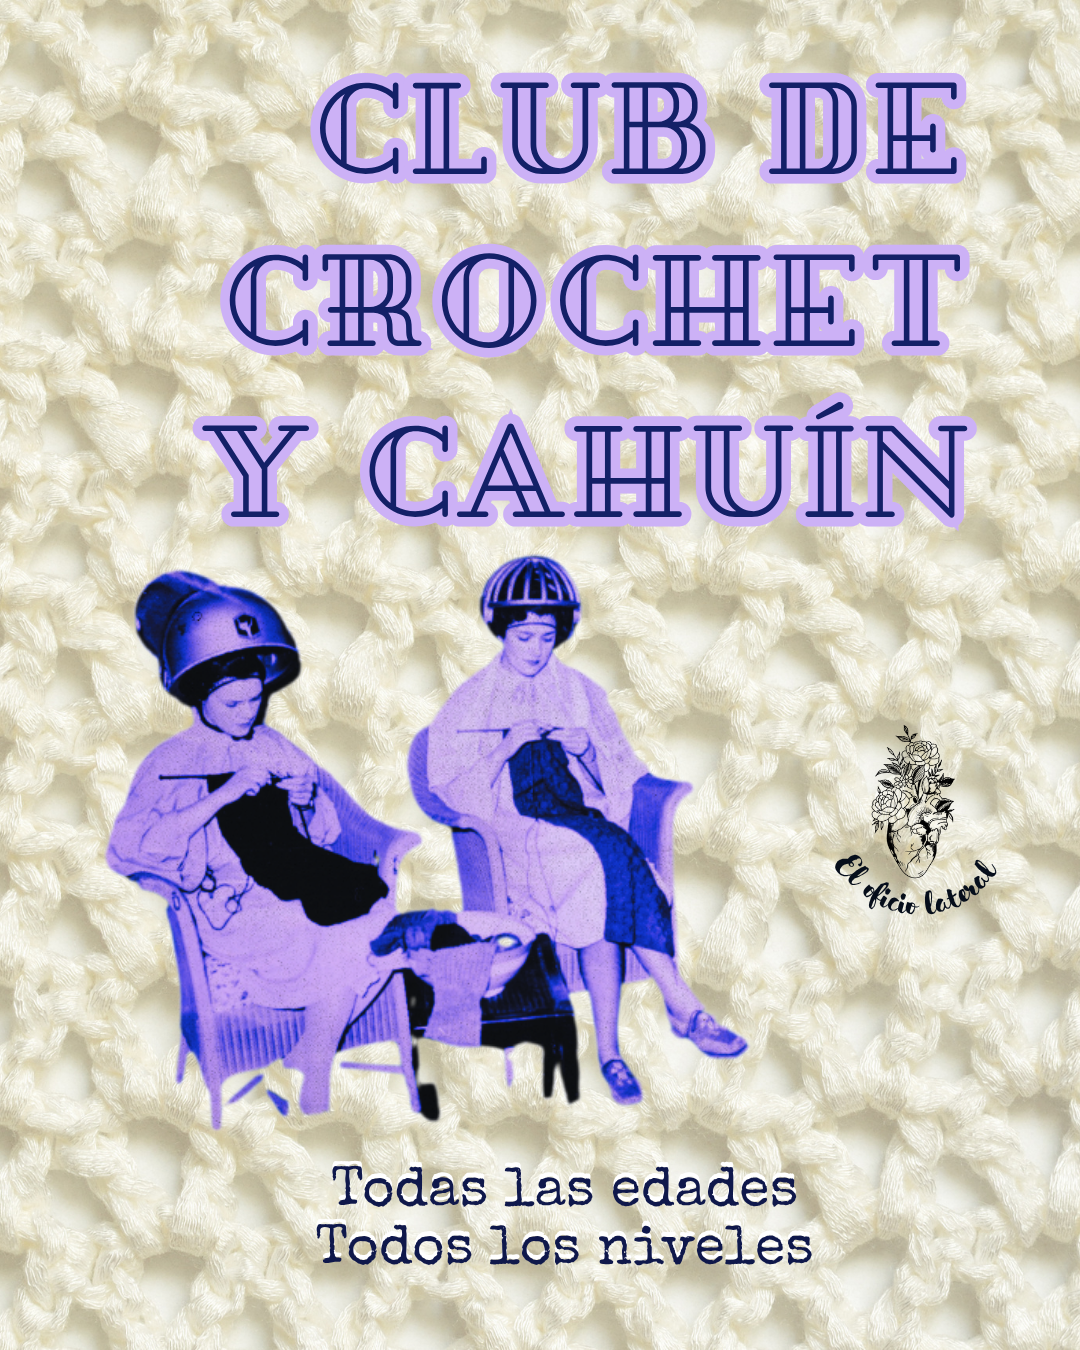
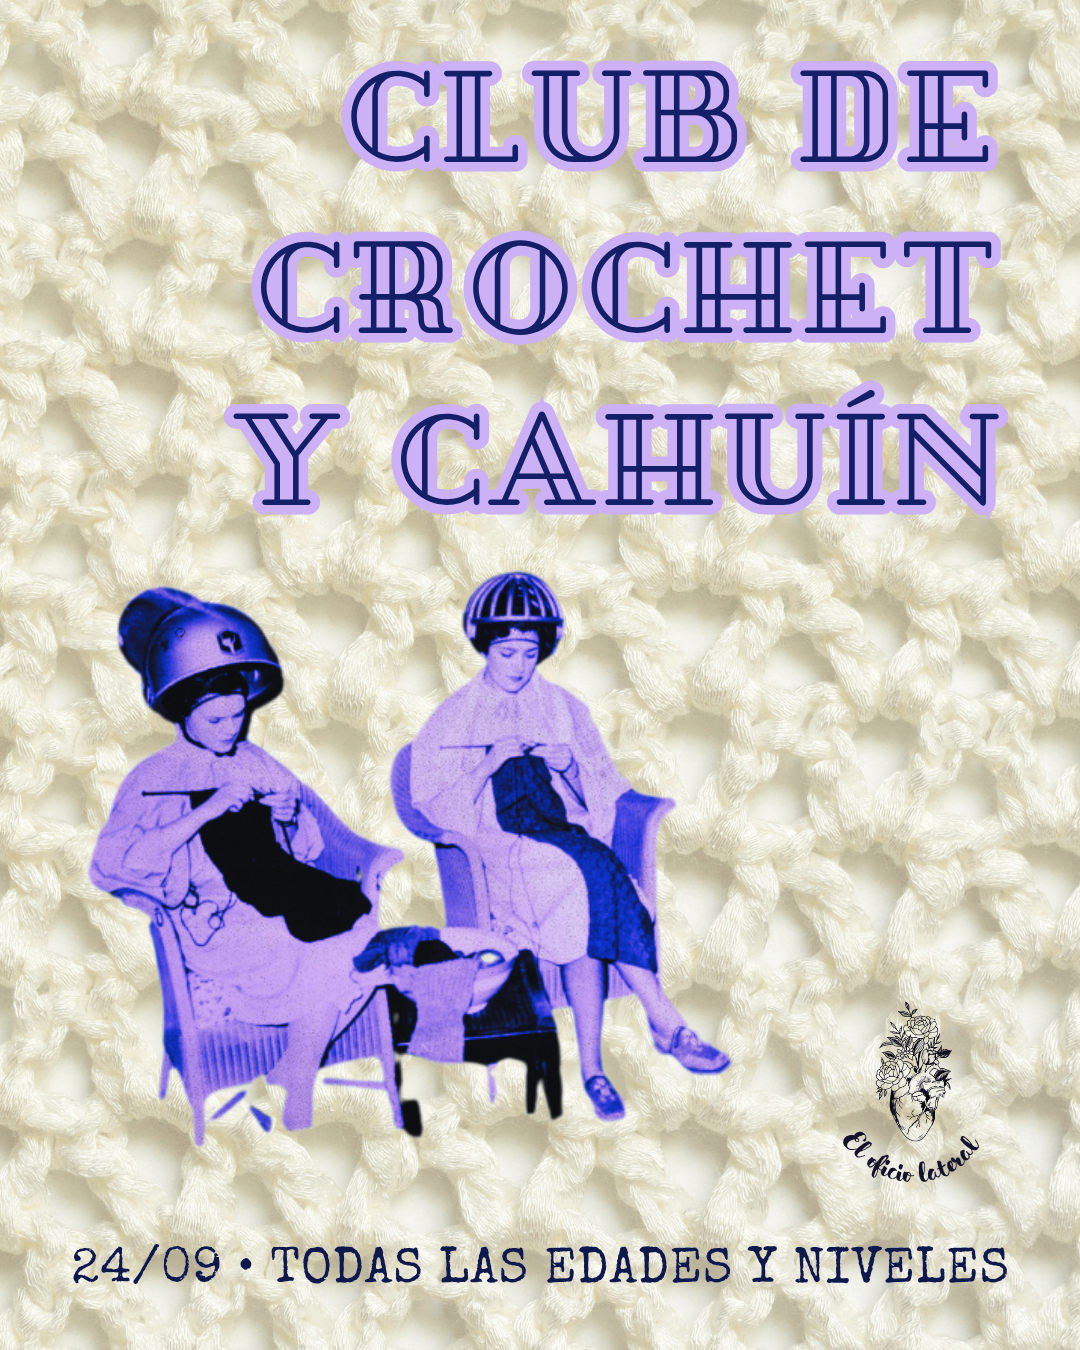
Actualiza Club de Crochet y Cahuín: afiche, valores y fecha
Nuevo afiche, valores mensuales ($40.000 trabajadores / $35.000
estudiantes), 2 grupos martes/jueves 19-21h, primera sesión 24/09.
Se mueve la tarjeta al primer lugar de talleres.

diff --git a/index.html b/index.html
@@ -104,6 +104,24 @@
       <div class="tarjetas">
         <div class="tarjeta">
           <div class="tarjeta-foto">
+            <img src="realizados/afiche-club-crochet.png" alt="Afiche del Club de Crochet y Cahuín" loading="lazy">
+          </div>
+          <span class="tarjeta-tag">Crochet · Tejido</span>
+          <span class="tarjeta-badge">Inscripciones abiertas</span>
+          <h3>Club de Crochet y Cahuín</h3>
+          <p class="tarjeta-pregunta">¿Hay algo mejor que tejer y copuchar?</p>
+          <p>Sesiones semanales de 2 horas en las que cada una avanza en su propio proyecto de crochet o tejido a dos agujas. Compartimos patrones y tips, y te ayudo a encontrar y leer diagramas de nivel principiante si lo necesitas. Con acceso a libros físicos y digitales, préstamo de materiales y una publicación al cierre del ciclo.</p>
+          <p class="tarjeta-meta">Presencial · 2 grupos: martes o jueves, 19 a 21 hrs</p>
+          <div class="tarjeta-precios">
+            <span class="precio-item">🧶 <strong>$40.000/mes</strong> — trabajadores</span>
+            <span class="precio-item">🧵 <strong>$35.000/mes</strong> — estudiantes</span>
+            <span class="precio-nota">Modalidad mensual · Incluye uso de materiales y préstamo de herramientas</span>
+            <span class="precio-nota">Primera sesión: 24 de septiembre</span>
+          </div>
+          <a href="https://docs.google.com/forms/d/e/1FAIpQLSf1zXGs0_Kftuf9BF-tzz-DDeJYp7MfpcYZcQ-Q-1cC62BWCA/viewform" class="btn-secundario">Inscribirme</a>
+        </div>
+        <div class="tarjeta">
+          <div class="tarjeta-foto">
             <img src="realizados/afiche-habra-nuevos-soles-2026.png" alt="Afiche del taller Habrá Nuevos Soles, edición agosto 2026" loading="lazy">
           </div>
           <span class="tarjeta-tag">Literatura · Distopías</span>
@@ -118,23 +136,6 @@
             <span class="precio-nota">Incluye el material de lectura en formato físico y/o digital</span>
           </div>
           <a href="https://docs.google.com/forms/d/e/1FAIpQLSdx9FjcXs-laWQ9li5RqHNoZYxFJU_dqIMwjwOFXe490EL2lA/viewform?usp=publish-editor" class="btn-secundario">Inscribirme</a>
-        </div>
-        <div class="tarjeta">
-          <div class="tarjeta-foto">
-            <img src="realizados/afiche-club-crochet.png" alt="Afiche del Club de Crochet y Cahuín" loading="lazy">
-          </div>
-          <span class="tarjeta-tag">Crochet · Tejido</span>
-          <span class="tarjeta-badge">Inscripciones abiertas</span>
-          <h3>Club de Crochet y Cahuín</h3>
-          <p class="tarjeta-pregunta">¿Hay algo mejor que tejer y copuchar?</p>
-          <p>Sesiones semanales o quincenales de 2 horas en las que cada una avanza en su propio proyecto de crochet o tejido a dos agujas. Compartimos patrones y tips, y te ayudo a encontrar y leer diagramas de nivel principiante si lo necesitas. Con acceso a libros físicos y digitales, préstamo de materiales y una publicación al cierre del ciclo.</p>
-          <p class="tarjeta-meta">Presencial</p>
-          <div class="tarjeta-precios">
-            <span class="precio-item">🧶 <strong>$40.000/mes</strong> — modalidad semanal (4 sesiones)</span>
-            <span class="precio-item">🧵 <strong>$24.000/mes</strong> — modalidad quincenal (2 sesiones)</span>
-            <span class="precio-nota">Incluye uso de materiales y préstamo de herramientas</span>
-          </div>
-          <a href="https://docs.google.com/forms/d/e/1FAIpQLSf1zXGs0_Kftuf9BF-tzz-DDeJYp7MfpcYZcQ-Q-1cC62BWCA/viewform" class="btn-secundario">Inscribirme</a>
         </div>
         <div class="tarjeta">
           <div class="tarjeta-foto">
